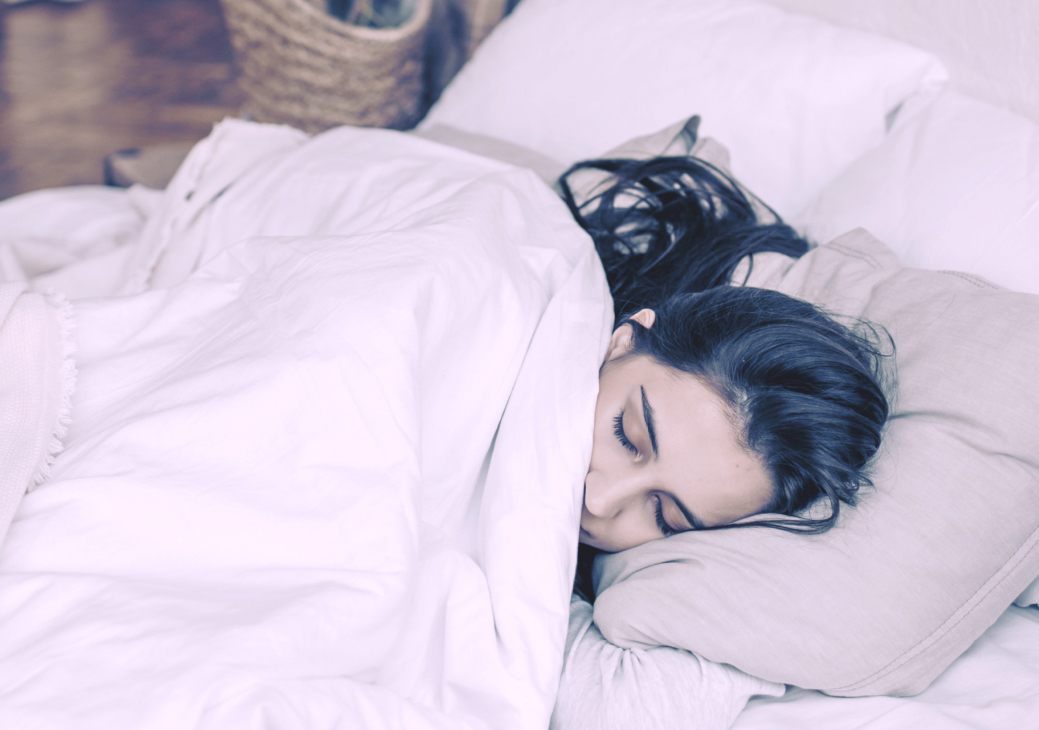
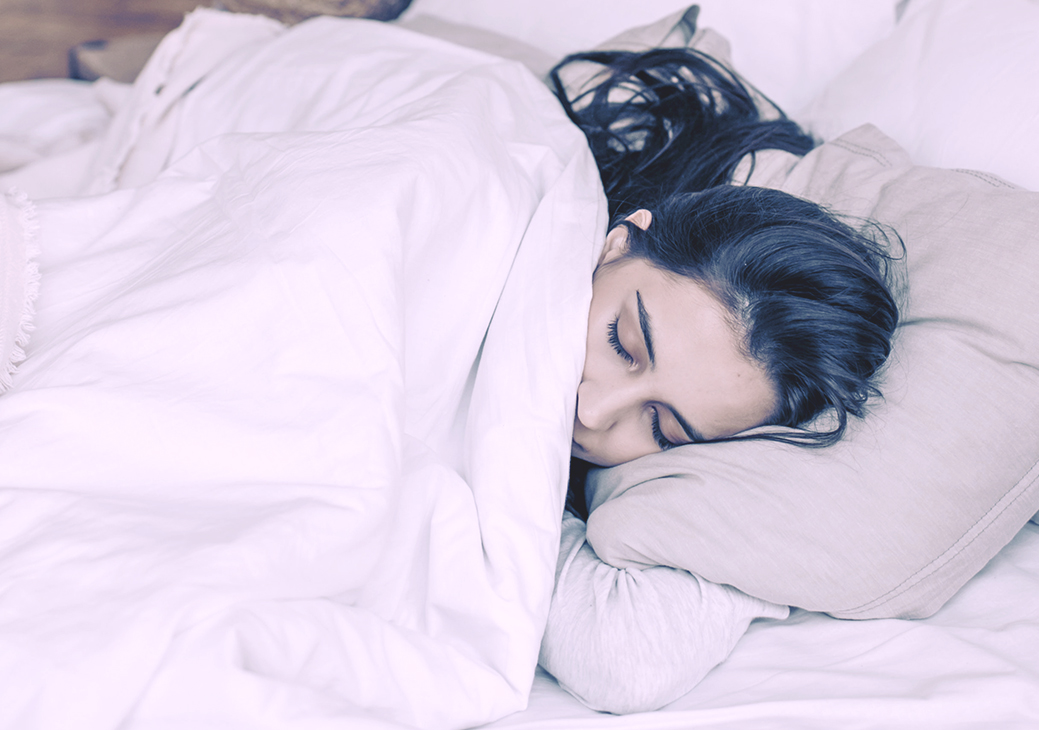
首頁手機RWD調整

diff --git a/css/index.css b/css/index.css
@@ -26,7 +26,6 @@
     border: 7px solid #73A1F1;
     border-radius: 20px;
     box-shadow: 20px 30px 0px #D9E7FF;
-    z-index: 1;
 }
 
 .banner h2{
@@ -335,13 +334,12 @@ textarea:focus-visible{
     /* -----------banner----------- */
 
     main{
-        margin-bottom: 210px;
+        margin-bottom: 180px;
     }
 
 
     .banner .pic{
         width: 100%;
-        top: 210px;
     }
 
     .banner .pic img{
@@ -349,7 +347,7 @@ textarea:focus-visible{
     }
 
     .banner_card{
-        top: 10px;
+        top: 250px;
         left:0;
         right: 0;
         margin: auto;

diff --git a/index.html b/index.html
@@ -24,6 +24,9 @@
         </aside>
 
         <section class="banner">
+            <div class="pic">
+                <img src="pic/index_banner_re.jpg" alt="logo">
+            </div>
             <div class="banner_card">
                 <h2>囈語成眠</h2>
                 <div class="banner_tags tags">
@@ -50,9 +53,6 @@
                         </div>
                     </a>
                 </div>
-            </div>
-            <div class="pic">
-                <img src="pic/index_banner_re.jpg" alt="logo">
             </div>
         </section>
         

diff --git a/css/common.css b/css/common.css
@@ -768,7 +768,7 @@ footer{
     footer{
         padding-top: 0;
         padding-top: 440px;
-        background-position: -200px -950px;
+        background-position: -290px -950px;
         background-size: 250% 250%;
     }
 
@@ -777,4 +777,13 @@ footer{
         height: 130px;
         top: 240px;
     }
+
+    .footer_card{
+        margin-bottom: 20px;
+    }
+
+    .footer_info h2{
+        margin-bottom: 15px;
+    }
+
 }
